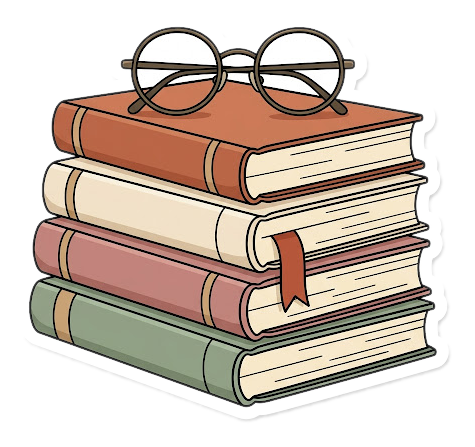
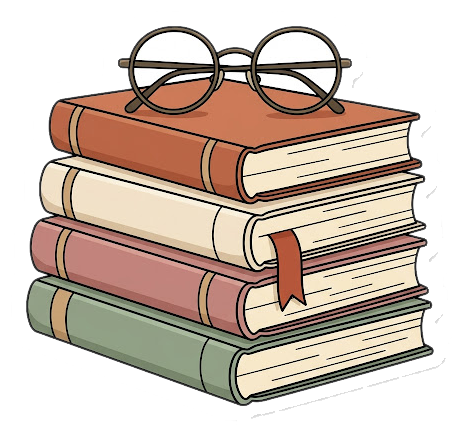
5商品の白フチを訂正(初回処理で背景と一緒に消えていた)
ユーザー指摘により発覚: 元のフラッドフィル方式による背景除去は、
Gemini生成画像の白フチが背景と同色で地続きだったため、背景と一緒に
白フチも透明化してしまっていた。

輪郭線シルエットを14pxダイレーションし、意図的に白いダイカット用フチを
再構築する処理(add_white_border.py相当)で5点とも作り直し。濃紺背景への
合成画像で視覚的に確認済み。logs/run-log.mdに誤りと修正内容を記録。

Claude-Session: https://claude.ai/code/session_01T37nzjxd8Gv5oe4MoRmXhU

Changed region(s): [[0.0297, 0.0586, 0.9512, 0.9369]]

diff --git a/logs/run-log.md b/logs/run-log.md
@@ -75,3 +75,18 @@
 - RESEARCH INCOMPLETE: いいえ
 - 塗り絵モジュールのコアデータへの変更は`cottagecore-mushroom-garden`への内部リンク追加のみ(既存スコア・判定は変更なし)
 - 未実施・持ち越し事項: Obsidian連携(引き続きユーザーのPC作業時に対応予定)、PR作成・mainへのマージ
+
+## 2026-08-28 (最初の5商品: 画像の背景除去・訂正)
+- トリガー: 人間からの直接指示(Geminiで生成した5枚のステッカー画像の背景透過処理)
+- 実施内容:
+  - `research/products/` に5点の透過PNGを作成(境界線で保護されるフラッドフィル方式、
+    scipy.ndimage.labelで背景色をコーナーから自動サンプリング)
+  - **誤り**: 初回処理では、元画像の白フチが背景と同色で地続きだったため、フラッドフィルが
+    背景と一緒に白フチも消してしまっていた。ユーザーから「白フチが消えているのでは」と
+    指摘を受け、ピクセル値を実際に確認して誤りを認め訂正
+  - 修正: 輪郭線シルエットをN=14pxダイレーションし、意図的に白いダイカット用フチを
+    再構築する処理を追加(`add_white_border.py`)。濃紺背景に合成した検証画像で
+    白フチの存在を視覚的に証明した上でユーザーへ再送
+- RESEARCH INCOMPLETE: いいえ
+- 教訓: 透過処理の結果を報告する際は、白背景の上で見た目を確認するだけでなく、
+  実際のピクセル値(alpha・RGB)を検証してから断定すること
